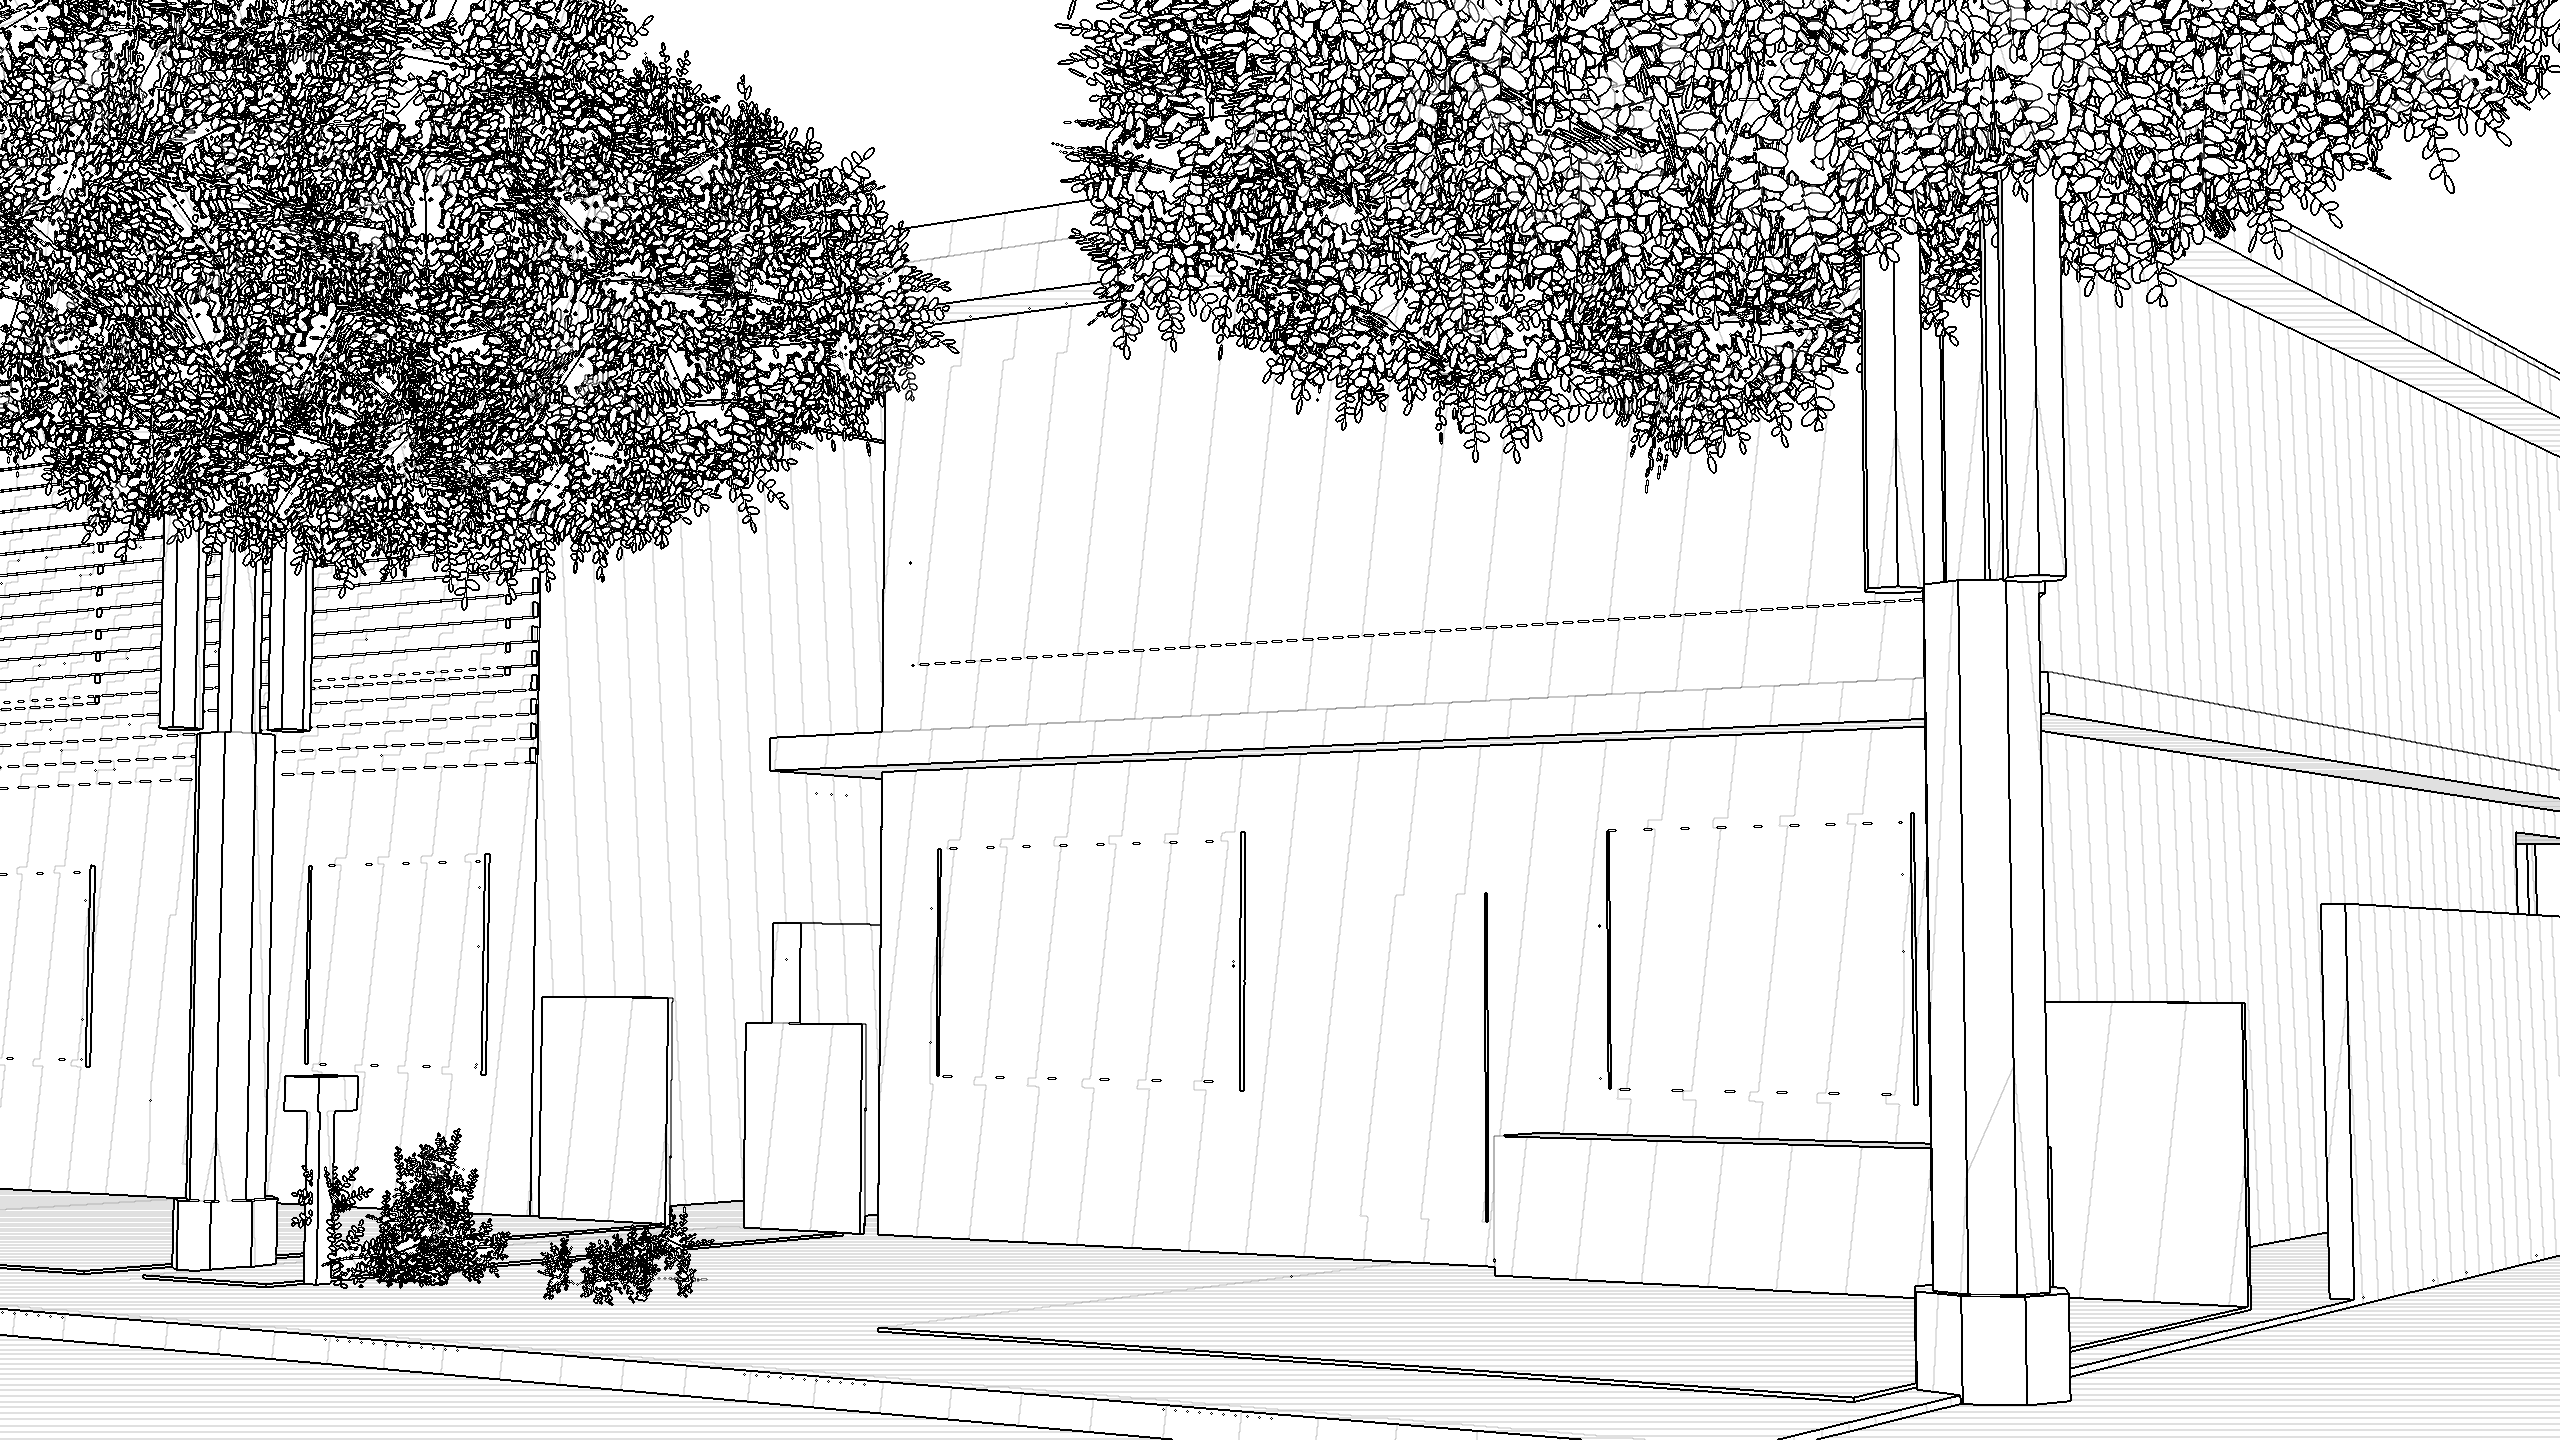
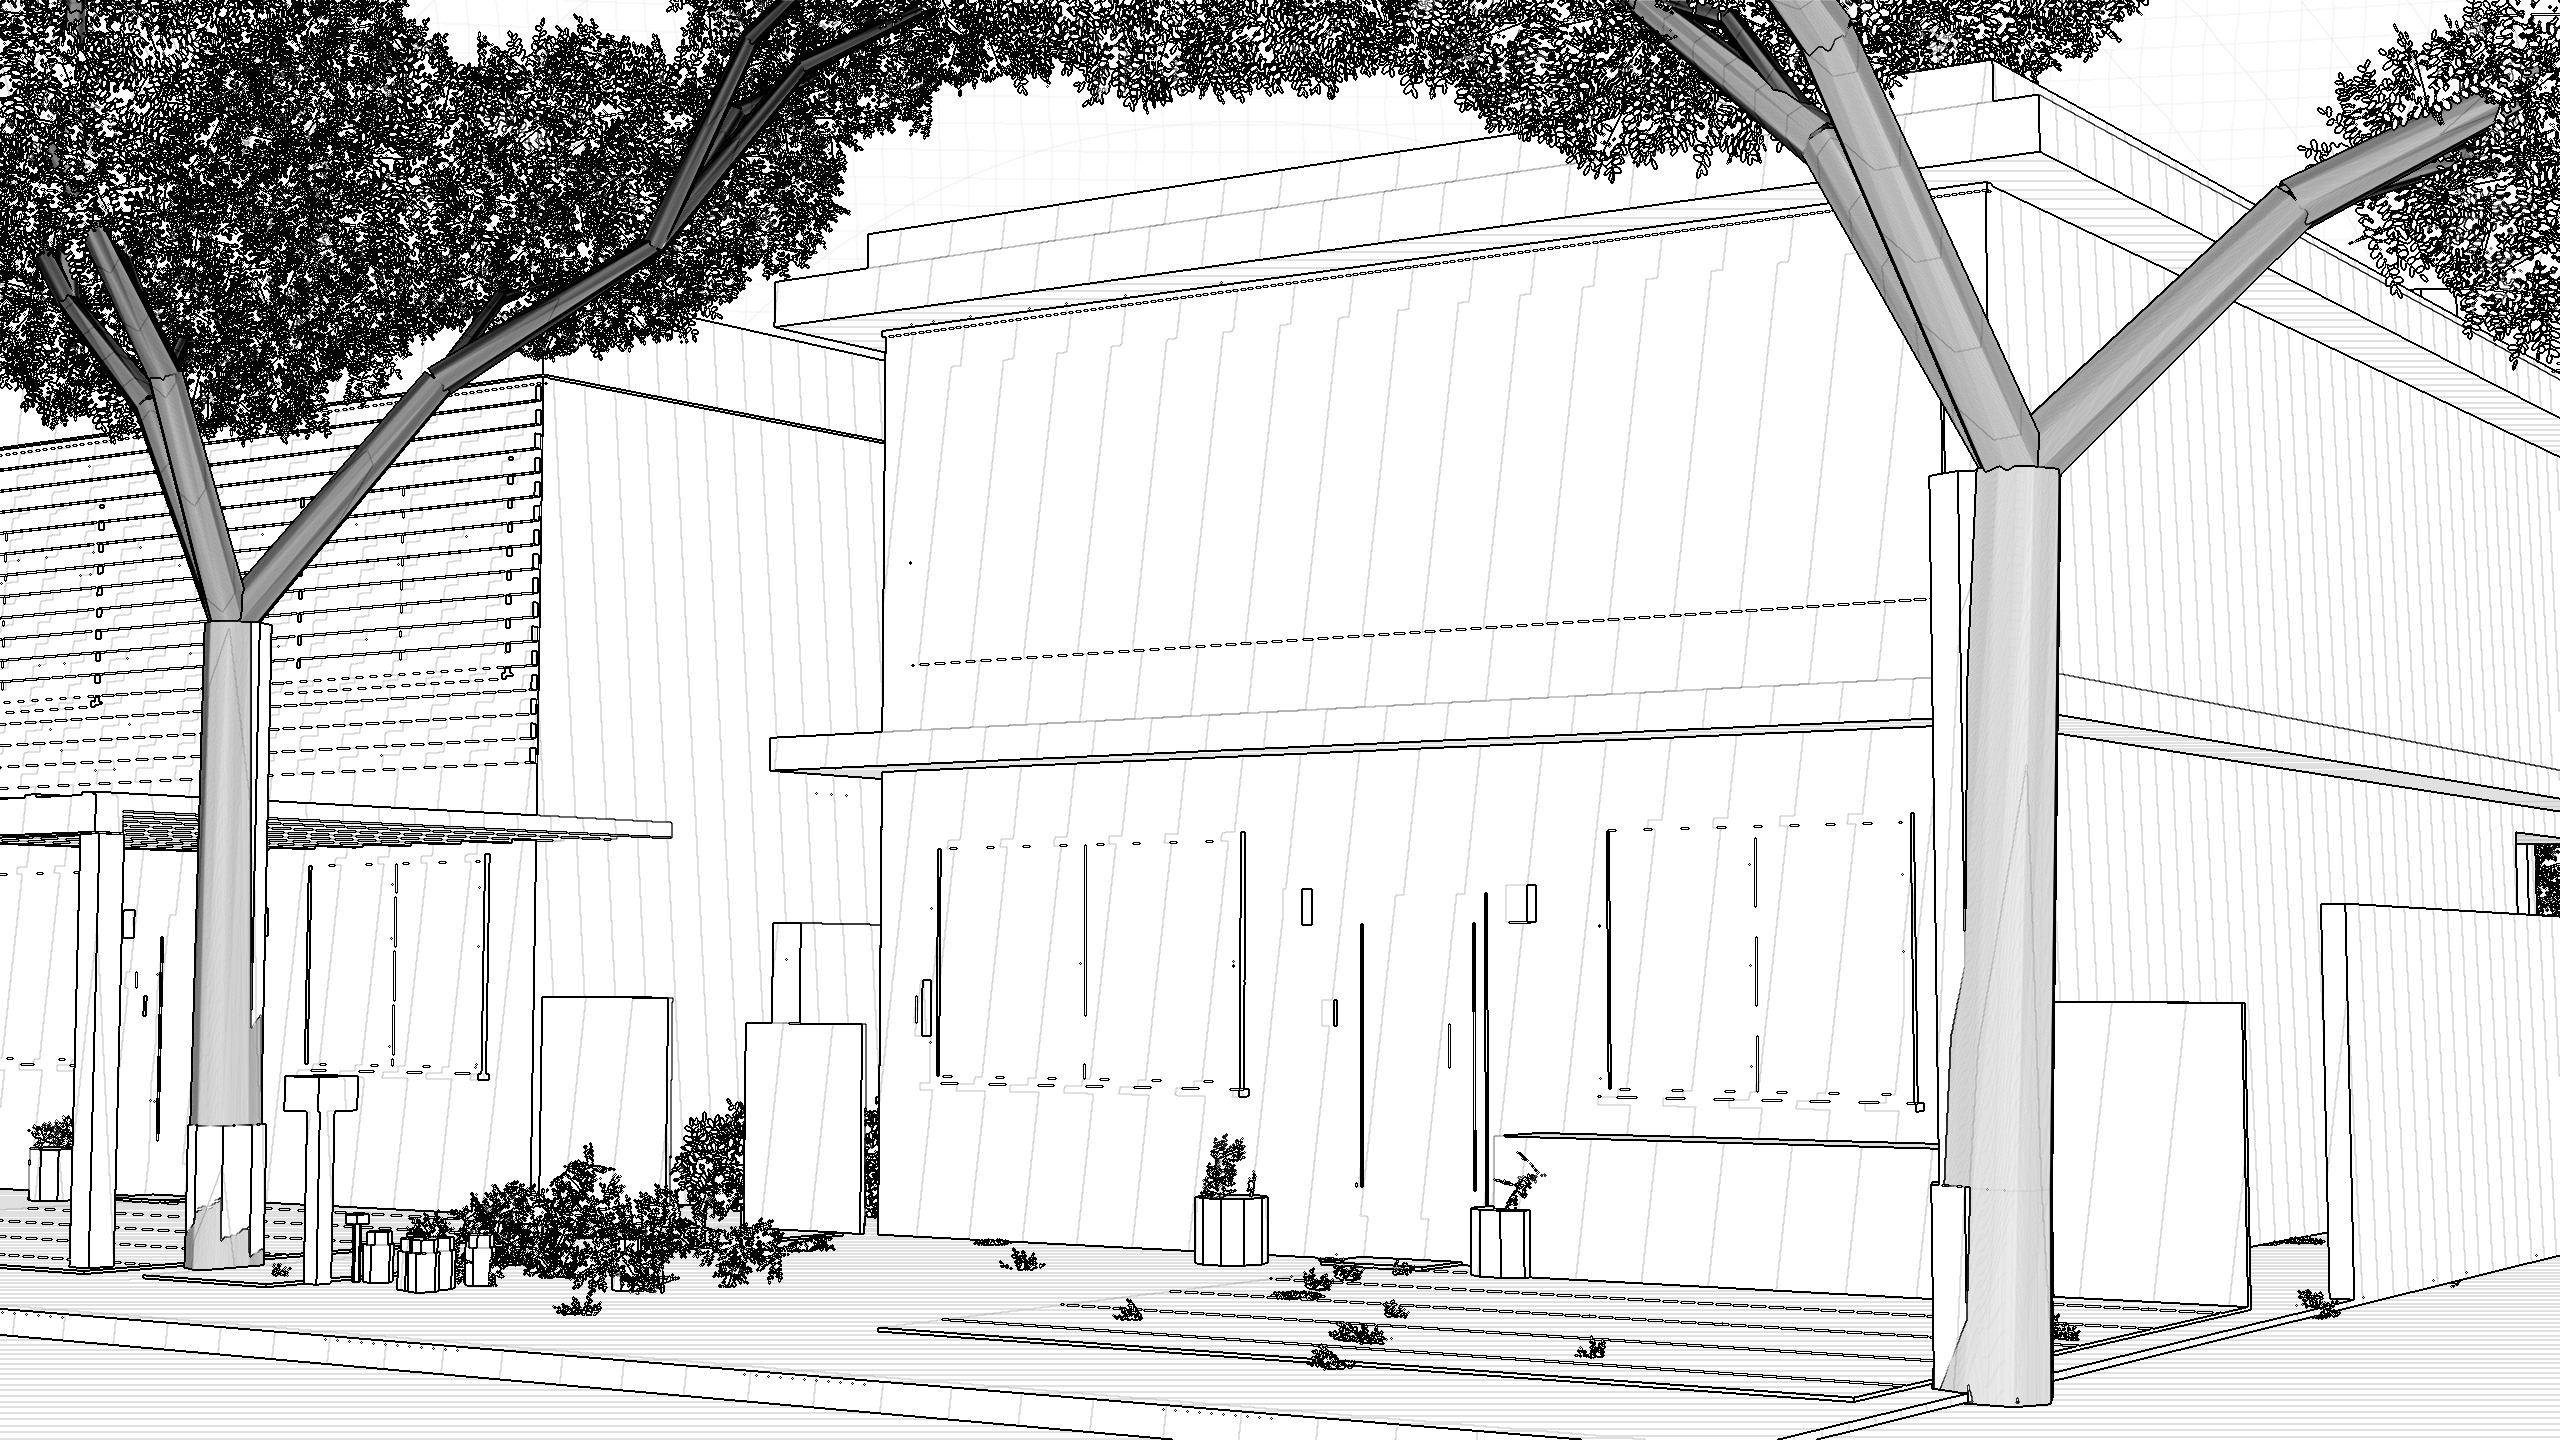
README: cómo funciona el creador de renders fotorrealistas y cómo se generan los renders del concurso
Claude-Session: https://claude.ai/code/session_015pLUZwxjrUE2nJNUxegQCN

diff --git a/README.md b/README.md
@@ -42,6 +42,8 @@ La zona `capitaltorreon.com` ya está en Cloudflare. Se publica como Worker de a
 
 **Página del cliente y prospectos.** `/inicio/` es la página de venta (la arma `pipeline/scripts/sitio_inicio.py`; sus imágenes salen de `node pipeline/scripts/renders.js --lista pipeline/scripts/renders_inicio.json` a `public/inicio/img/`). El formulario manda a `POST /api/prospecto` y el Worker guarda cada registro en un Durable Object con SQLite (`Prospectos`, declarado en `wrangler.jsonc`: no hay que crear nada en Cloudflare, el primer deploy lo crea). Para descargarlos: `/api/prospectos?clave=…&formato=csv`. La clave es el secreto `ADMIN_CLAVE` (si no está, `RENDER_CLAVE`); mientras no haya ninguno, la clave provisional es `123` (igual para el creador de renders con IA). Para recibir un correo por cada prospecto, secretos `RESEND_API_KEY` y `AVISO_CORREO` (opcional `AVISO_DESDE`). Las instrucciones también están en `/datos/#prospectos`.
 
+**Creador de renders fotorrealistas (`/renders/foto/`).** Motor WebGL propio (`public/render/foto3d.js`, three.js vendido en `public/vendor/three/`) que lee las mismas escenas del modelo 3D (`public/datos/escenas/*.json`) y las dibuja con materiales con textura, nogales con hojas y nueces, pasto, sombras suaves, oclusión ambiental, bloom y mapeo tonal. El sol se calcula para Torreón según la hora y la fecha (`sol`, `luzSolar`, `horaPreset`); la barra de abajo mueve la hora de 0 a 24 con marcas de salida y puesta, presets relativos a la fecha, animación del día completo y fecha; los paneles controlan cámara, nubes (capa de cúmulos con cobertura, viento y velo de nublado), bruma, fuerza del sol, exposición, luces y calidad; de noche hay estrellas y se encienden luminarias y cristales. También hay modo caminar (`?caminar=1`) y mapas de control (profundidad, normales, líneas) para ControlNet. Los renders del concurso se generan sin abrir el navegador con `NODE_PATH=/opt/node-tools/node_modules node pipeline/scripts/fotos.js --control` (lista en `pipeline/scripts/fotos_lista.json`, salida en `public/renders/foto/img/` y `control/`), con un servidor local en el puerto 8787 (`cd public && python3 -m http.server 8787`).
+
 **Secretos del Worker (render fotorrealista con IA).** El creador de renders (`/renders/#ia`) llama a `/api/render-ia`, que vive en `worker/index.js` y usa dos secretos del Worker `nogalera`: `OPENAI_API_KEY` (la llave de OpenAI) y `RENDER_CLAVE` (la contraseña que se escribe en la página para poder generar). Se ponen en Cloudflare → Workers & Pages → nogalera → Settings → Variables and Secrets (tipo *Secret*), o con `npx wrangler secret put OPENAI_API_KEY` y `npx wrangler secret put RENDER_CLAVE`. Con los dos puestos, el siguiente deploy los toma; la página avisa si falta alguno.
 
 `wrangler.jsonc` ya trae el dominio `nogalera.capitaltorreon.com` («custom domain»): al publicar, Cloudflare crea solo el registro DNS y el certificado. Si marca error de zona (porque `capitaltorreon.com` está en otra cuenta), borra el bloque `routes` de `wrangler.jsonc` y agrega el dominio a mano en **nogalera → Settings → Domains & Routes → Add → Custom domain**.
